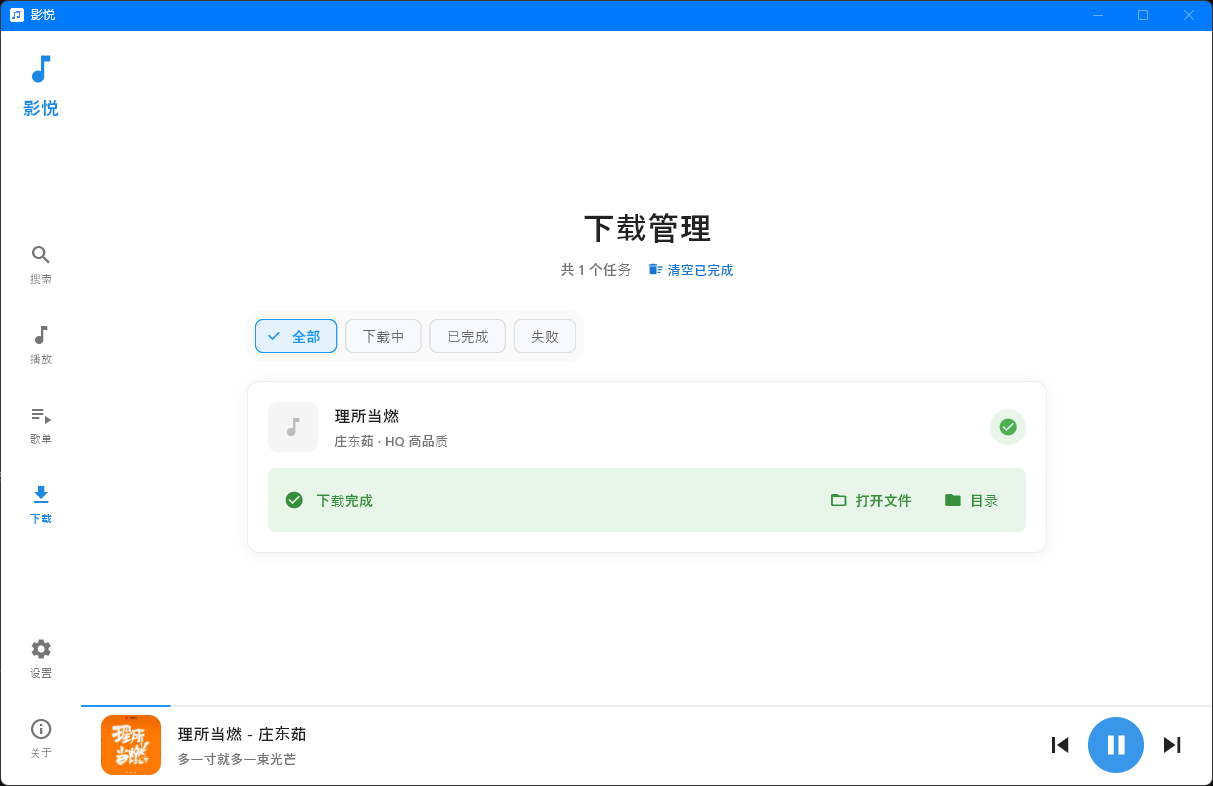
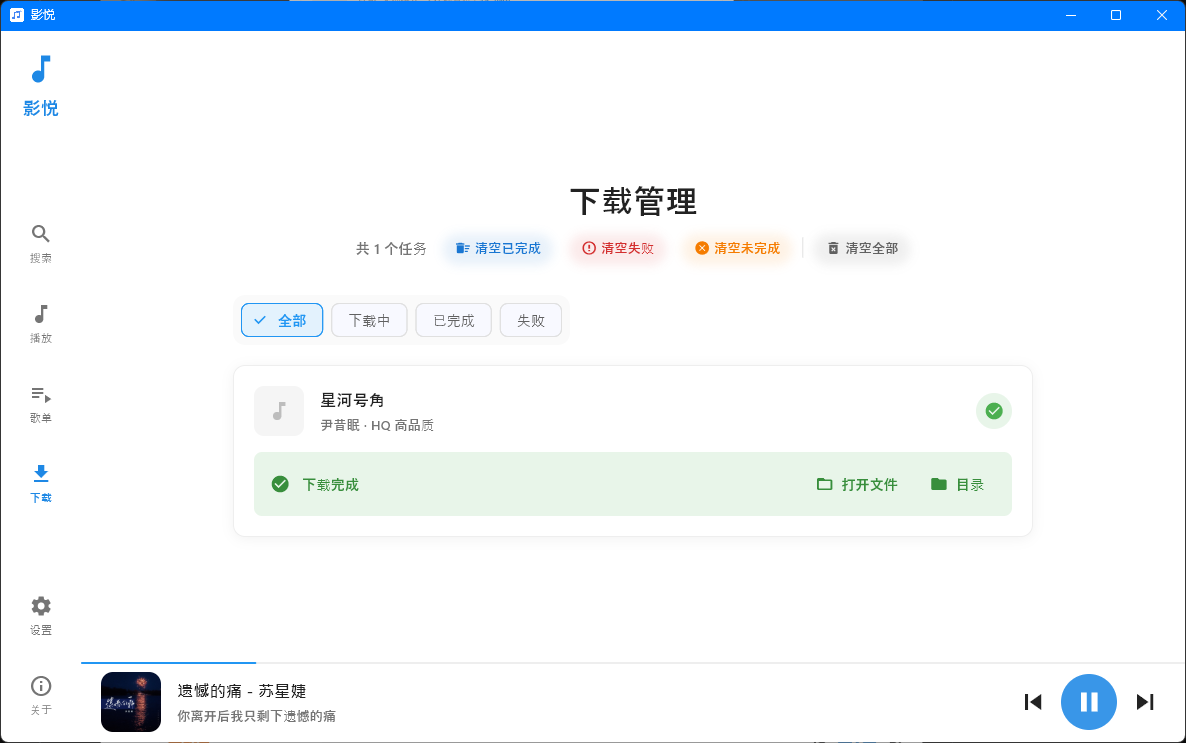
update README.md.

diff --git a/README.md b/README.md
@@ -126,7 +126,7 @@
 3. 选择音质后点击"确定"
 4. 下载完成后，可以在"下载管理"页面查看
 ![下载自选音质](image4.png)
-![可支持打开音频和所在文件夹](image5.png)
+![可打开音频和所在文件夹](image5.png)
 
 ### 歌单管理
 
